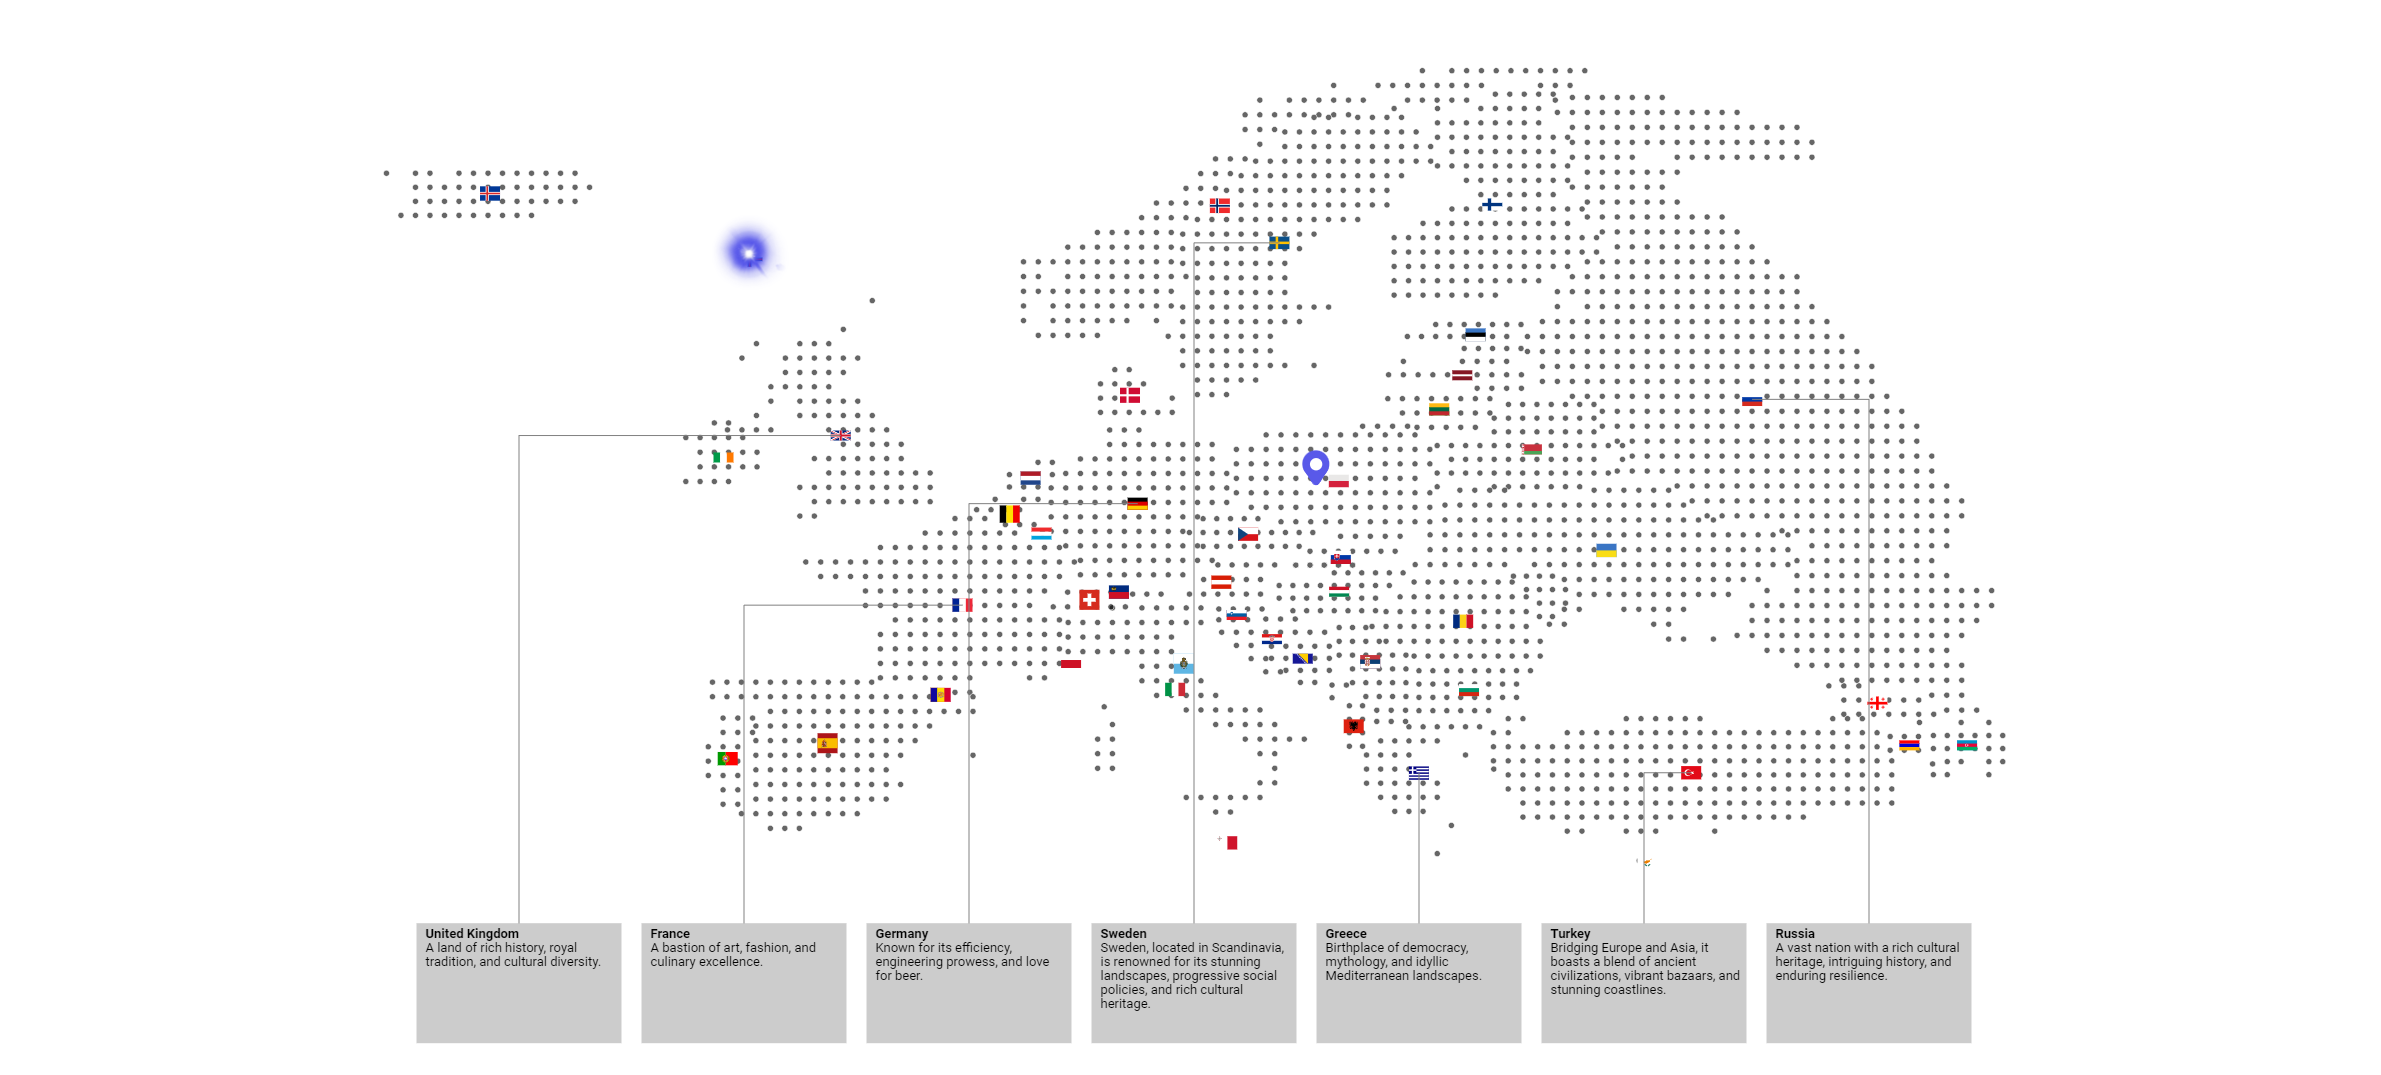
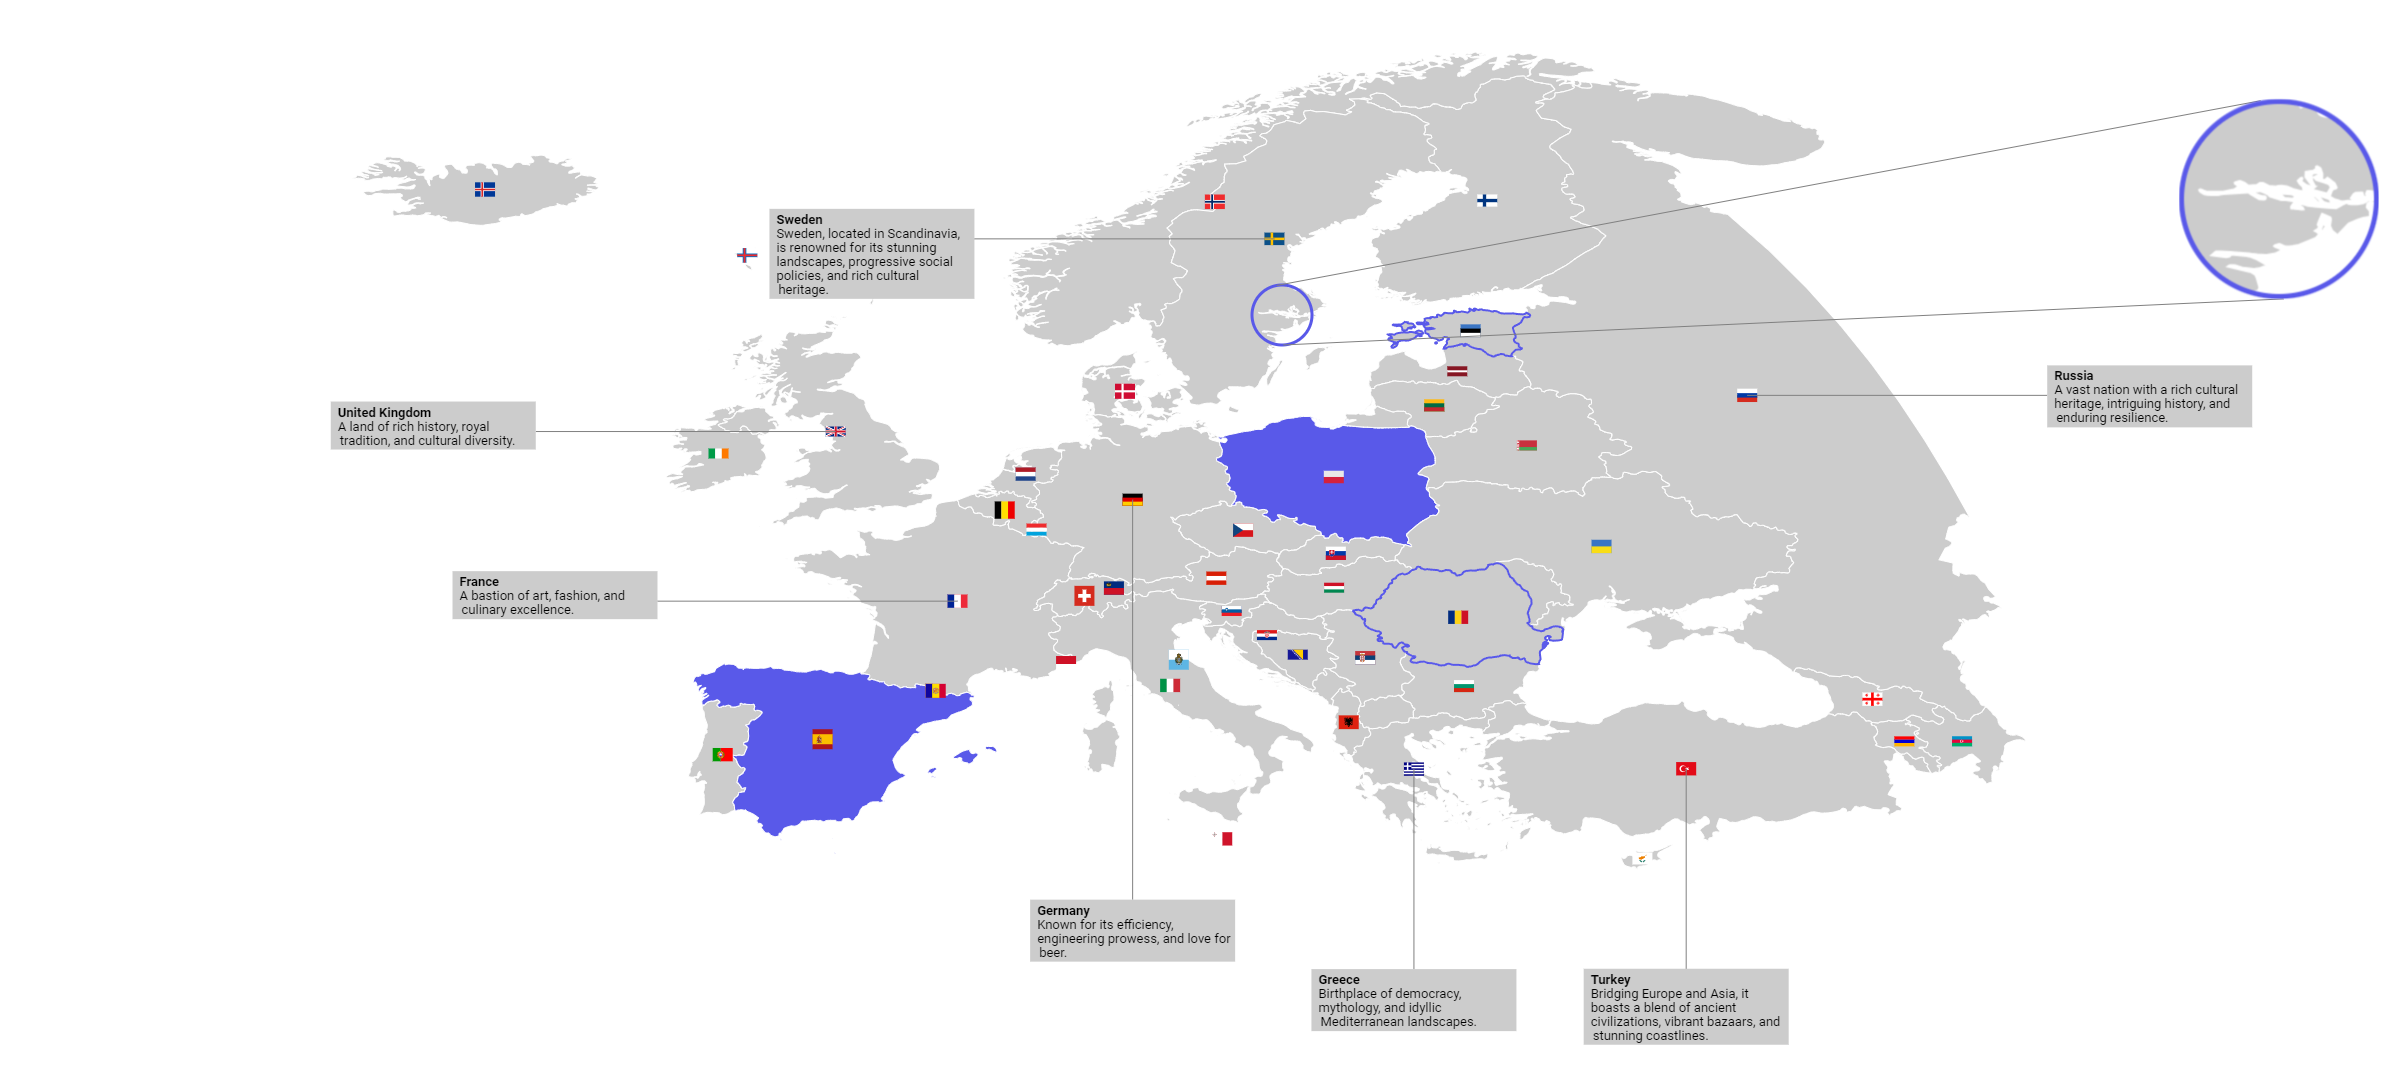
gallery

diff --git a/src/components/gallery.vue b/src/components/gallery.vue
@@ -19,7 +19,7 @@
                 </v-col>
                 <div class="row-with-line"></div>
                 <v-col class="image-with-text">
-                    <v-img :src="require('../assets/gallery4C.png')" contain/>
+                    <v-img :src="require('../assets/gallery5C.png')" contain/>
                 </v-col>
             </v-row>
             <v-row>
@@ -35,10 +35,10 @@
                 <div class="row-with-line"></div>
                 <v-col>
                     <div  class="text-container">
-                        <div>Basic Map: Topographic Map</div>
+                        <div>Basic Map: Political Map</div>
                         <div>Encoding Channel: Glyph</div>
-                        <div>Label Position: Aligned</div>
-                        <div>Highlight: Map Pin, Enlarged Portions</div>
+                        <div>Label Position: Color</div>
+                        <div>Highlight: Contour, Map Pin, Light, Enlarged Portions</div>
                     </div>
                 </v-col>
             </v-row>
@@ -51,26 +51,26 @@
                 </v-col>
                 <div class="row-with-line"></div>
                 <v-col class="image-with-text">
-                    <v-img :src="require('../assets/gallery5C.png')" contain/>
+                    <v-img :src="require('../assets/galleryZhaoC.png')" contain/>
                 </v-col>
             </v-row>
             <v-row>
                 <div class="row-with-line"></div>
                 <v-col>
                     <div  class="text-container">
-                        <div>Basic Map: Topographic Map</div>
-                        <div>Encoding Channel: Color Intensity, 2D Length</div>
-                        <div>Label Position: Convenient</div>
-                        <div>Highlight: Enlarged Portions</div>
+                        <div>Basic Map: Political Map</div>
+                        <div>Encoding Channel: Color Intensity</div>
+                        <div>Label Position: Aligned</div>
+                        <div>Highlight: Light, Map Pin</div>
                     </div>
                 </v-col>
                 <div class="row-with-line"></div>
                 <v-col>
                     <div  class="text-container">
                         <div>Basic Map: Political Map</div>
-                        <div>Encoding Channel: Glyph</div>
-                        <div>Label Position: Color</div>
-                        <div>Highlight: Contour, Map Pin, Light, Enlarged Portions</div>
+                        <div>Encoding Channel: Color Hue</div>
+                        <div>Label Position: Convenient</div>
+                        <div>Highlight: Map Pin, Enlarged Portions</div>
                     </div>
                 </v-col>
             </v-row>
@@ -82,7 +82,7 @@
                 </v-col>
                 <div class="row-with-line"></div>
                 <v-col class="image-with-text">
-                    <v-img :src="require('../assets/galleryZhaoC.png')" contain/>
+                    <v-img :src="require('../assets/gallery4C.png')" contain/>
                 </v-col>
             </v-row>
             <v-row>
@@ -98,10 +98,10 @@
                 <div class="row-with-line"></div>
                 <v-col>
                     <div  class="text-container">
-                        <div>Basic Map: Political Map</div>
-                        <div>Encoding Channel: Color Hue</div>
-                        <div>Label Position: Convenient</div>
-                        <div>Highlight: Contour, Map Pin, 3D Transformation, Enlarged Portions</div>
+                        <div>Basic Map: Topographic Map</div>
+                        <div>Encoding Channel: Glyph</div>
+                        <div>Label Position: Aligned</div>
+                        <div>Highlight: Map Pin, Enlarged Portions</div>
                     </div>
                 </v-col>
             </v-row>
@@ -129,10 +129,10 @@
                 <div class="row-with-line"></div>
                 <v-col>
                     <div  class="text-container">
-                        <div>Basic Map: Shape-based Map</div>
+                        <div>Basic Map: Political Map</div>
                         <div>Encoding Channel: Glyph</div>
-                        <div>Label Position: Aligned</div>
-                        <div>Highlight: Light, Map Pin</div>
+                        <div>Label Position: Convenient</div>
+                        <div>Highlight: Color, Contour, Enlarged Portions</div>
                     </div>
                 </v-col>
             </v-row>
